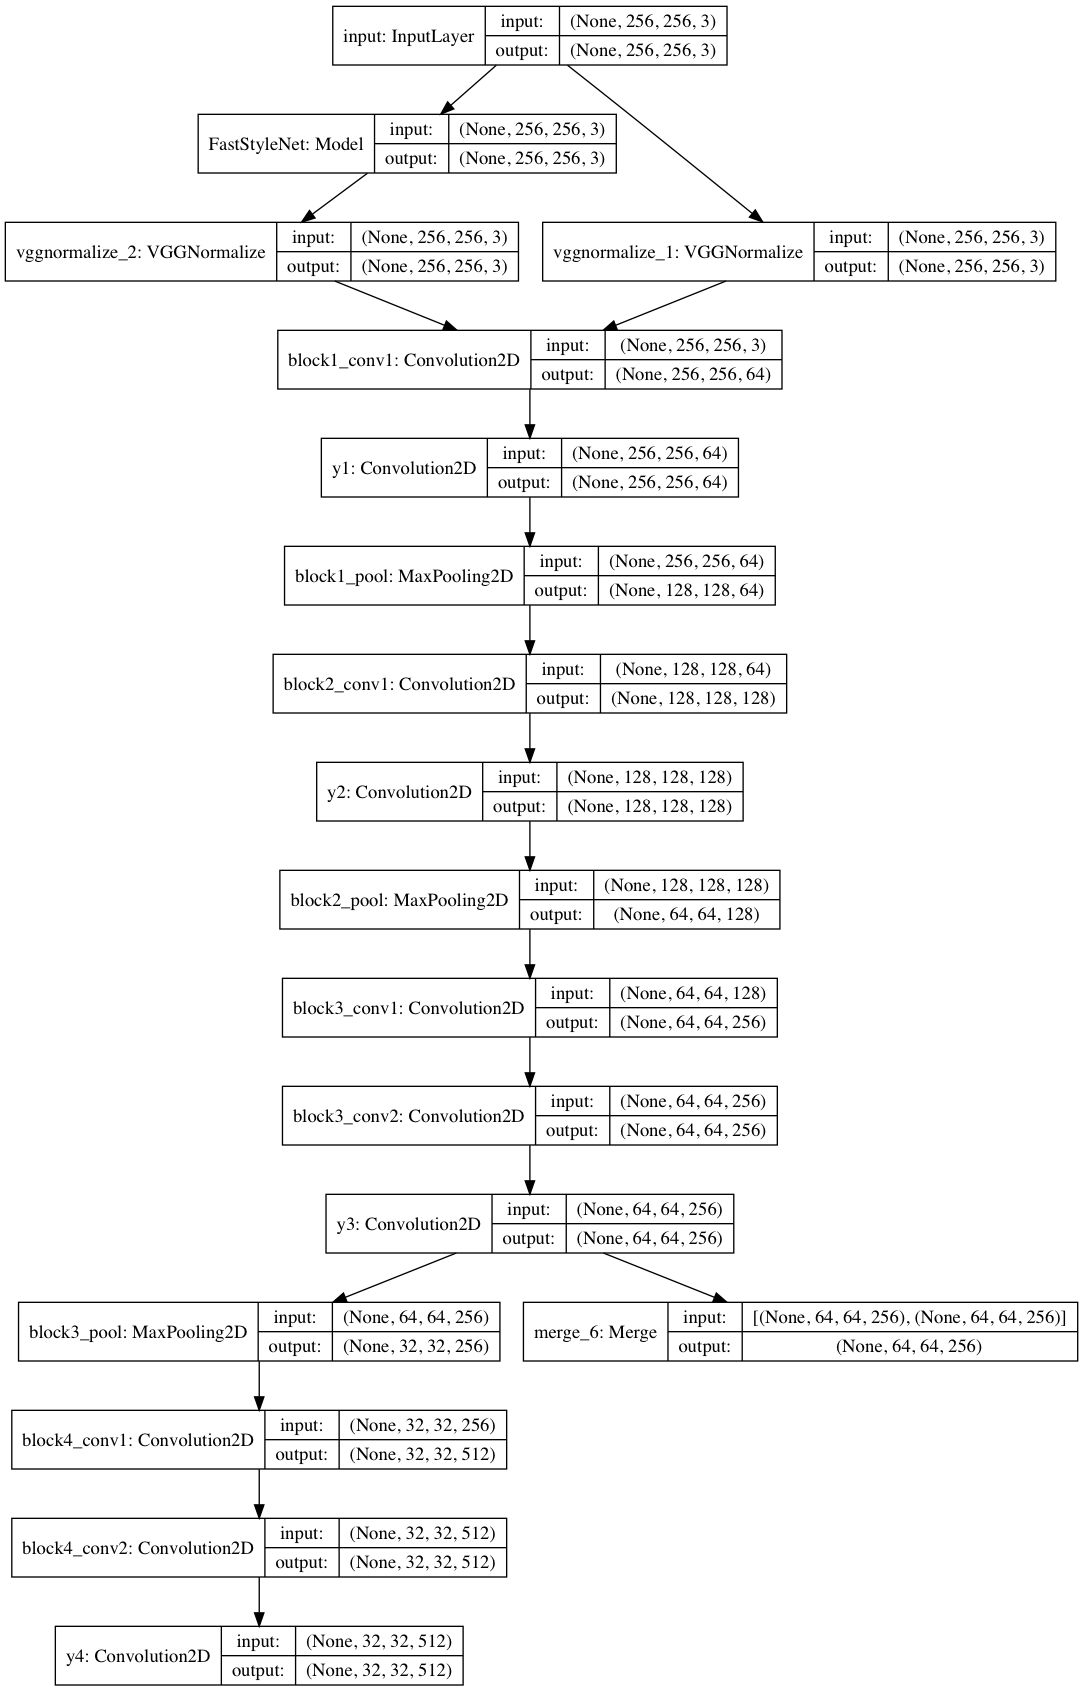
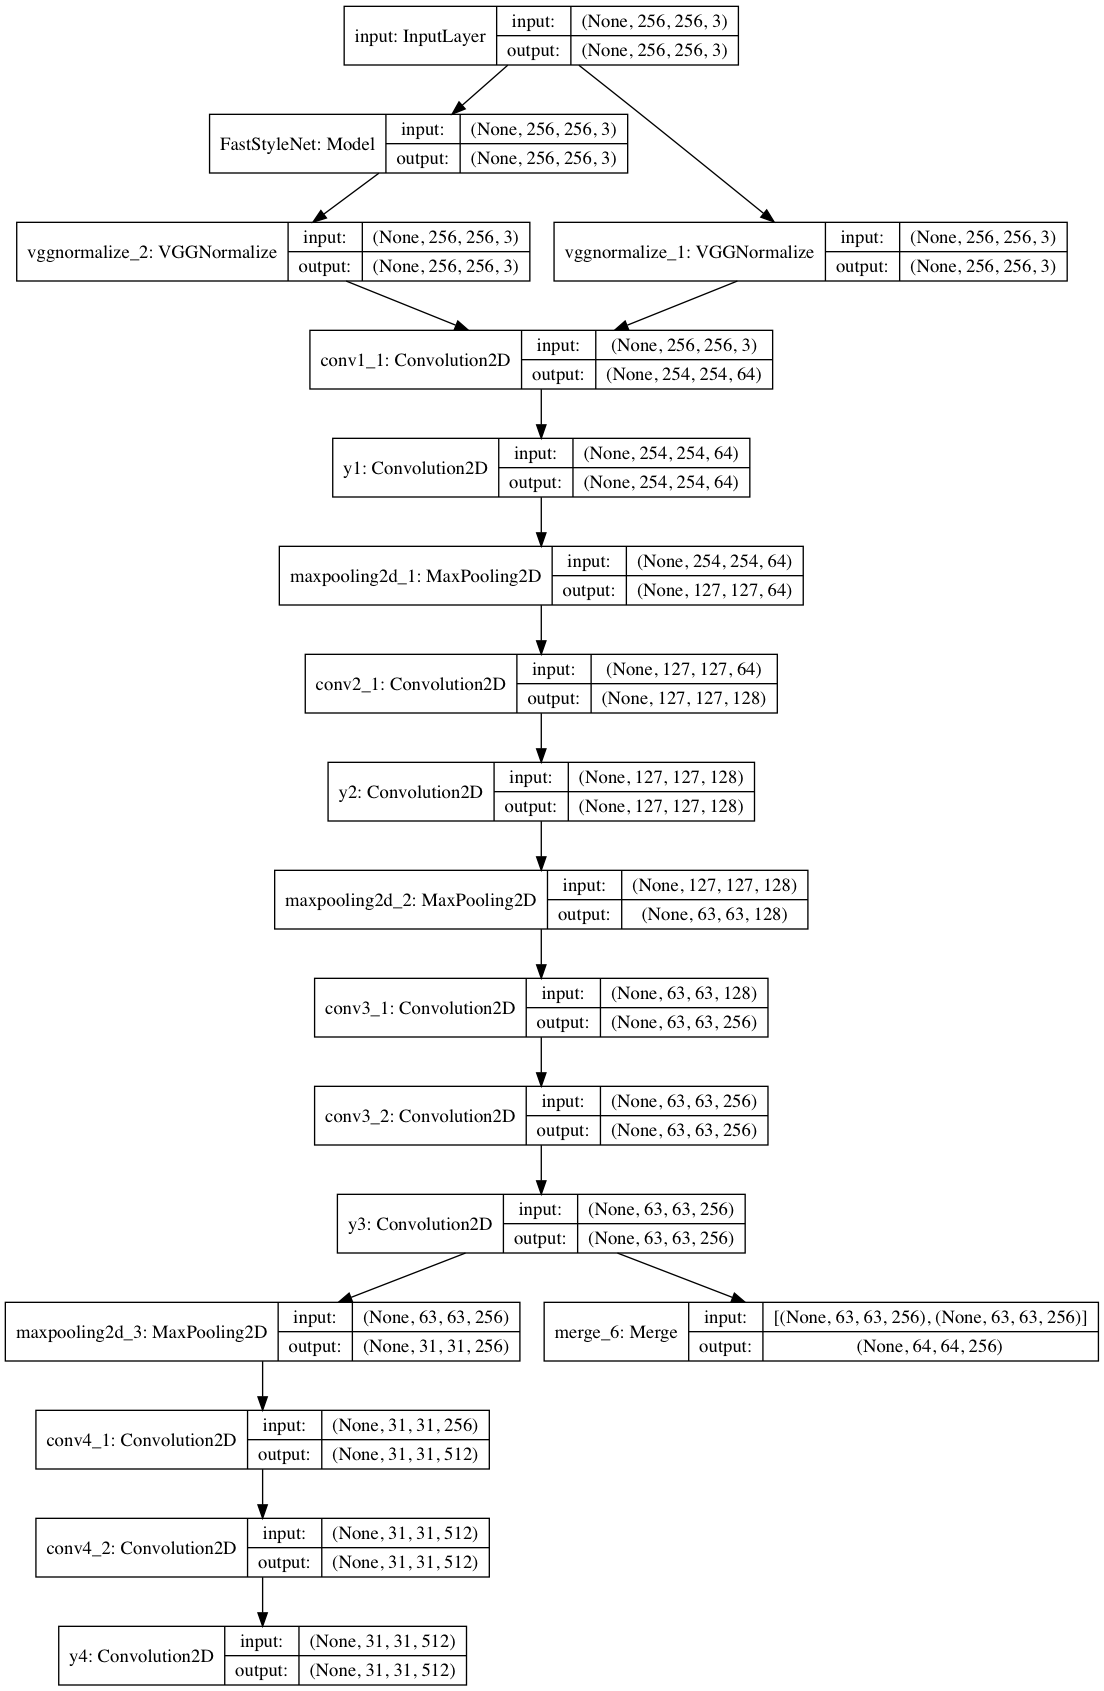
bug fix

diff --git a/model.py b/model.py
@@ -2,21 +2,17 @@ from keras.models import Model
 from keras.layers import Input, merge
 from keras.layers.core import Activation
 from keras.layers.advanced_activations import ELU
-from keras.layers.convolutional import Convolution2D, ZeroPadding2D, Deconvolution2D, AveragePooling2D
+from keras.layers.convolutional import Convolution2D, ZeroPadding2D, Deconvolution2D, AveragePooling2D, MaxPooling2D
 from keras.layers.normalization import BatchNormalization
-
 from keras import backend as K
-from keras.applications.vgg16 import VGG16
+from keras.utils.data_utils import get_file
 
 from layers import *
 
+import h5py
 import numpy as np
-from copy import deepcopy
 
-vgg16 = VGG16(include_top=False,
-              weights='imagenet',
-              input_tensor=None,
-              input_shape=(256,256,3))
+TENSORFLOW_WEIGHTS_PATH_NO_TOP = r"https://github.com/fchollet/deep-learning-models/releases/download/v0.1/vgg16_weights_tf_dim_ordering_tf_kernels_notop.h5"
 
 class FastStyleNet:
 
@@ -85,10 +81,17 @@ class FastStyleNet:
         return Model(inputs, out)
 
     def connect_vgg16(self):
+        vgg = VGG()
+        vgg16 = vgg.create_model()
 
         # Frozen all layers of vgg16.
         for l in vgg16.layers:
             l.trainable = False
+
+        print(vgg16.layers[ 2])
+        print(vgg16.layers[ 5])
+        print(vgg16.layers[ 9])
+        print(vgg16.layers[ 13])
 
         vgg16.layers[ 2].name = "y1"
         vgg16.layers[ 5].name = "y2"
@@ -104,11 +107,8 @@ class FastStyleNet:
 
         y0 = fsn(ip)
 
-        #ip2 = VGGNormalize()(ip)
-        #cy0 = VGGNormalize()(y0)
-
-        ip2 = SubMean()(ip)
-        cy0 = SubMean()(y0)
+        ip2 = VGGNormalize()(ip)
+        cy0 = VGGNormalize()(y0)
 
         # I think that it can be done more easily here...
         # Please give me some idea.
@@ -143,6 +143,61 @@ class FastStyleNet:
 
         train_model = Model(input=ip, output=[y1, y2, y3, y4, cy3, y0])
         return train_model, fsn
+
+class VGG():
+    def __init__(self, img_height=256, img_width=256):
+        self.img_height = img_height
+        self.img_width = img_width
+
+    def create_model(self):
+
+        ip = Input(shape=(self.img_width, self.img_height, 3))
+
+        x = Convolution2D(64, 3, 3, activation='relu', name='conv1_1')(ip)
+        x = Convolution2D(64, 3, 3, activation='relu', name='conv1_2', border_mode='same')(x)
+        x = MaxPooling2D((2, 2), strides=(2, 2))(x)
+
+        x = Convolution2D(128, 3, 3, activation='relu', name='conv2_1', border_mode='same')(x)
+        x = Convolution2D(128, 3, 3, activation='relu', name='conv2_2', border_mode='same')(x)
+        x = MaxPooling2D((2, 2), strides=(2, 2))(x)
+
+        x = Convolution2D(256, 3, 3, activation='relu', name='conv3_1', border_mode='same')(x)
+        x = Convolution2D(256, 3, 3, activation='relu', name='conv3_2', border_mode='same')(x)
+        x = Convolution2D(256, 3, 3, activation='relu', name='conv3_3', border_mode='same')(x)
+        x = MaxPooling2D((2, 2), strides=(2, 2))(x)
+
+        x = Convolution2D(512, 3, 3, activation='relu', name='conv4_1', border_mode='same')(x)
+        x = Convolution2D(512, 3, 3, activation='relu', name='conv4_2', border_mode='same')(x)
+        x = Convolution2D(512, 3, 3, activation='relu', name='conv4_3', border_mode='same')(x)
+        x = MaxPooling2D((2, 2), strides=(2, 2))(x)
+
+        x = Convolution2D(512, 3, 3, activation='relu', name='conv5_1', border_mode='same')(x)
+        x = Convolution2D(512, 3, 3, activation='relu', name='conv5_2', border_mode='same')(x)
+        x = Convolution2D(512, 3, 3, activation='relu', name='conv5_3', border_mode='same')(x)
+        x = MaxPooling2D((2, 2), strides=(2, 2))(x)
+
+        model = Model(ip, x)
+
+        weights_name = "vgg16_weights_tf_dim_ordering_tf_kernels_notop.h5"
+        weights_path = TENSORFLOW_WEIGHTS_PATH_NO_TOP
+
+        weights = get_file(weights_name, weights_path, cache_subdir='models')
+        f = h5py.File(weights)
+
+        layer_names = [name for name in f.attrs['layer_names']]
+
+        for i, layer in enumerate(model.layers[-18:]):
+            g = f[layer_names[i]]
+            weights = [g[name] for name in g.attrs['weight_names']]
+            layer.set_weights(weights)
+        print('VGG Model weights loaded.')
+
+        # Freeze all VGG layers
+        for layer in model.layers[-19:]:
+            layer.trainable = False
+
+        self.model = model
+        return model
 
 if __name__ == "__main__":
     from keras.utils.visualize_util import plot

diff --git a/preprocess.py b/preprocess.py
@@ -4,7 +4,6 @@ from keras import backend as K
 import numpy as np
 from PIL import Image
 import os
-from keras.applications.vgg16 import VGG16
 
 def load_image(path, size):
     image = Image.open(path).convert('RGB')
@@ -22,6 +21,8 @@ def load_image(path, size):
     return image[np.newaxis, :]
 
 def get_style_features(style_img):
+    vgg = VGG()
+    vgg16 = vgg.create_model()
 
     inputs = K.variable(style_img)
     h  = vgg16.layers[ 1](inputs)

diff --git a/train.py b/train.py
@@ -91,7 +91,6 @@ if args.bound:
     imagepaths = imagepaths[:args.bound]
 nb_data = len(imagepaths)
 
-
 style = np.asarray(Image.open(args.style_image).convert('RGB').resize((image_size,image_size)), dtype=np.float32)
 style = style.reshape((1,) + style.shape)
 style = preprocess_input(style)

diff --git a/generate.py b/generate.py
@@ -16,7 +16,6 @@ parser.add_argument('--keep_colors', action='store_true')
 parser.set_defaults(keep_colors=False)
 args = parser.parse_args()
 
-
 """from 6o6o's fork. https://github.com/6o6o/chainer-fast-neuralstyle/blob/master/generate.py
 """
 def original_colors(original, stylized):
